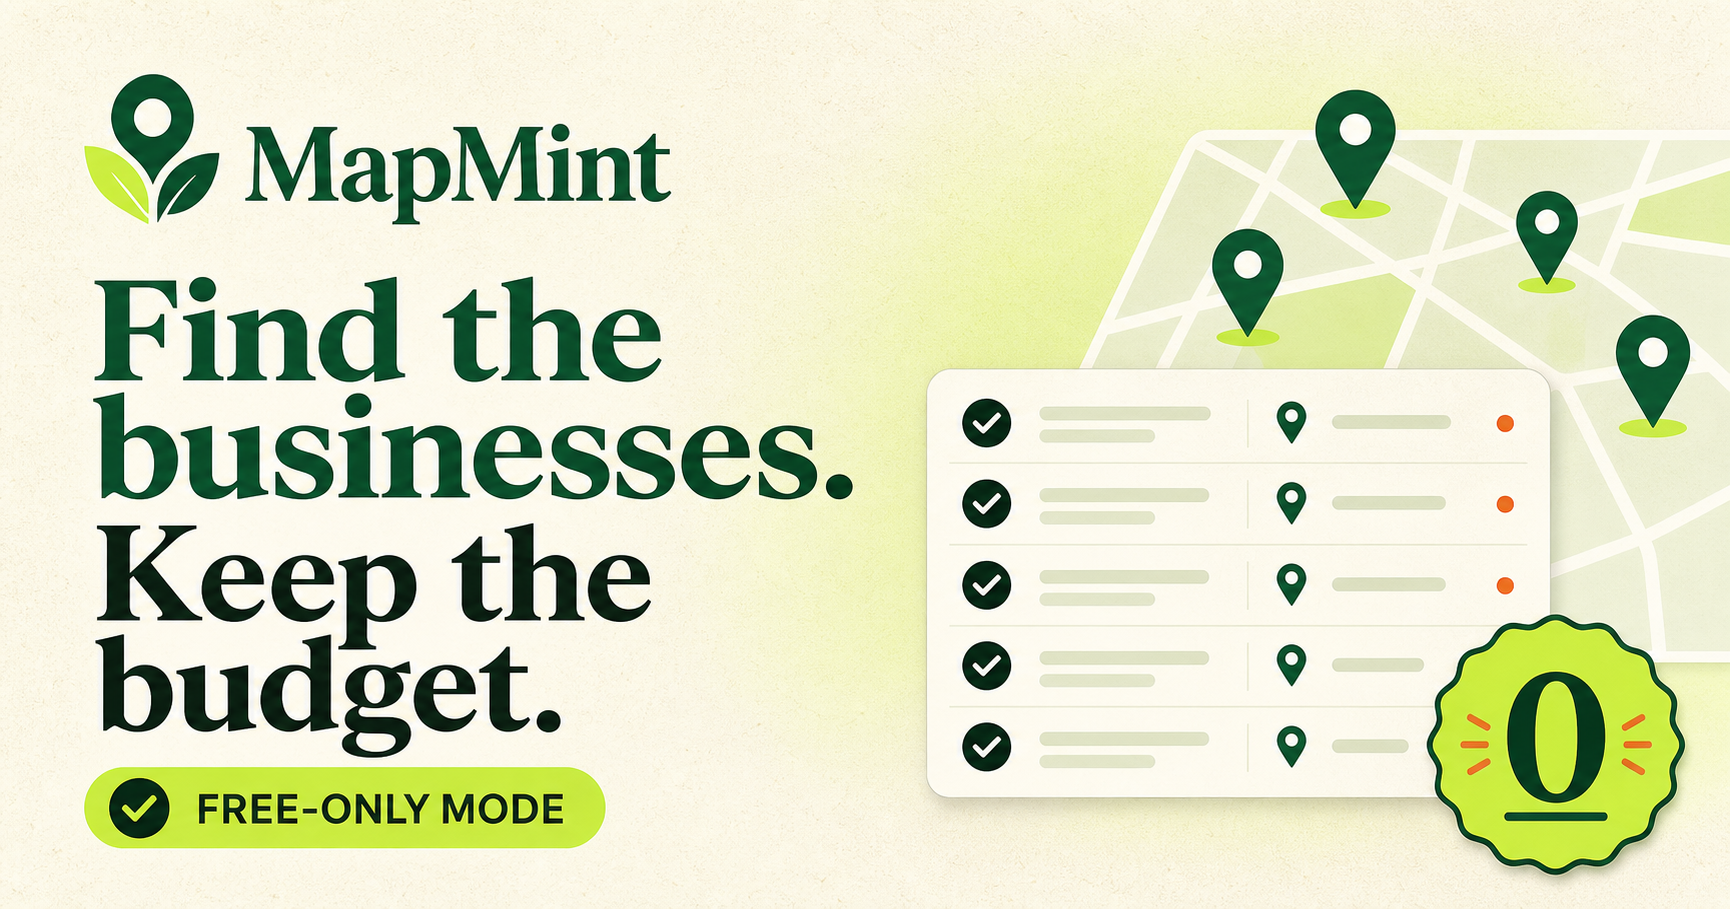
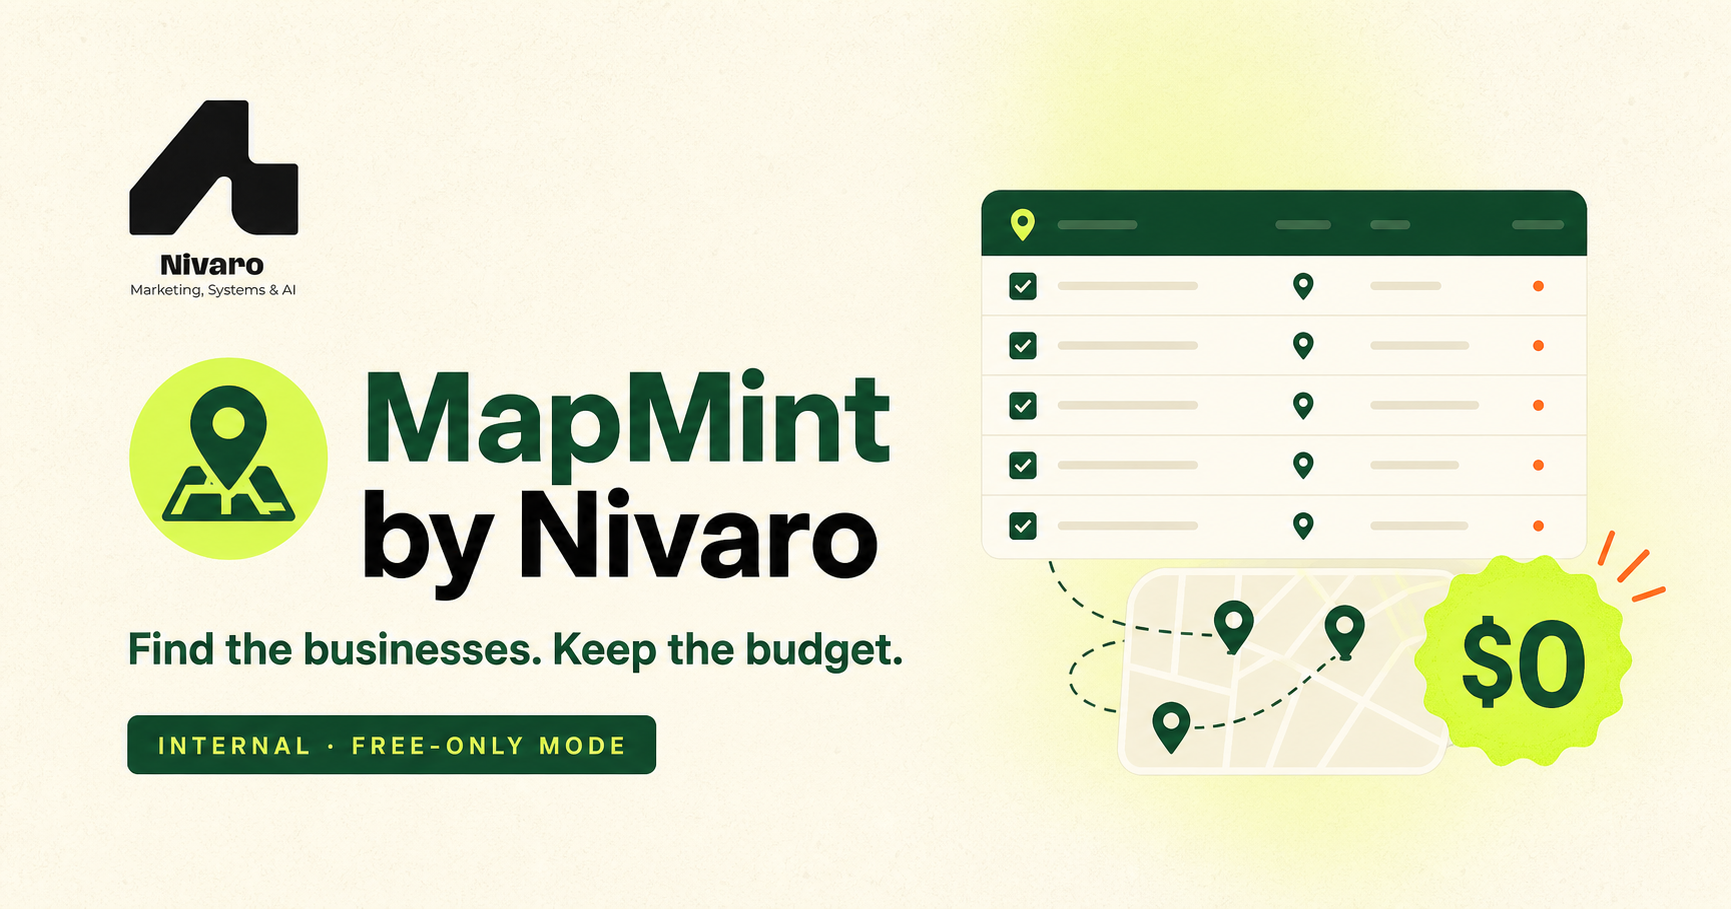
Brand MapMint as a Nivaro internal tool

diff --git a/app/globals.css b/app/globals.css
@@ -48,16 +48,38 @@ button:disabled { cursor: not-allowed; opacity: .45; }
   font-weight: 900;
   letter-spacing: -.6px;
 }
-.brand-mark {
-  width: 34px;
-  height: 34px;
+.nivaro-icon {
+  width: 46px;
+  height: 36px;
+  display: block;
+  position: relative;
+  overflow: hidden;
+  border-right: 1px solid var(--line);
+  padding-right: 10px;
+}
+.nivaro-icon img {
+  position: absolute;
+  width: 150px;
+  height: 45px;
+  max-width: none;
+  left: -57px;
+  top: -3px;
+}
+.product-lockup {
   display: grid;
-  place-items: center;
-  border-radius: 9px 9px 9px 2px;
-  color: var(--lime);
-  background: var(--green);
+  line-height: 1;
+}
+.product-lockup b {
   font-family: Georgia, serif;
-  font-style: italic;
+  font-size: 21px;
+  letter-spacing: -.7px;
+}
+.product-lockup small {
+  color: var(--muted);
+  font-size: 7px;
+  letter-spacing: 1.5px;
+  margin-top: 5px;
+  font-weight: 900;
 }
 .beta, .eyebrow, .step, .guard, .live-dot, .tip-card > span {
   font-size: 10px;
@@ -201,7 +223,10 @@ td b, td span { display: block; }
 td span { color: var(--muted); font-size: 10px; margin-top: 5px; max-width: 370px; }
 .rating { color: #ad7100; }
 .status { display: inline-block; color: var(--green); background: #e6efe2; border-radius: 99px; padding: 5px 8px; margin: 0; font-weight: 900; }
-footer { border-top: 1px solid var(--line); padding: 25px max(30px, calc((100vw - 1120px) / 2)); display: flex; justify-content: space-between; color: var(--muted); font-size: 10px; }
+footer { border-top: 1px solid var(--line); padding: 25px max(30px, calc((100vw - 1120px) / 2)); display: flex; align-items: center; justify-content: space-between; color: var(--muted); font-size: 10px; }
+.footer-brand { display: flex; align-items: center; gap: 10px; color: var(--ink); font-weight: 900; }
+.footer-brand .nivaro-icon { width: 35px; height: 26px; border: 0; padding: 0; }
+.footer-brand .nivaro-icon img { width: 108px; height: 32px; left: -41px; top: -2px; }
 
 @media (max-width: 800px) {
   .hero { padding-top: 55px; }

diff --git a/app/page.tsx b/app/page.tsx
@@ -189,10 +189,13 @@ export default function Home() {
   return (
     <main>
       <header className="topbar">
-        <a className="brand" href="#" aria-label="MapMint home">
-          <span className="brand-mark" aria-hidden="true">M</span>
-          <span>MapMint</span>
-          <span className="beta">BETA</span>
+        <a className="brand" href="#" aria-label="MapMint by Nivaro home">
+          <span className="nivaro-icon" aria-hidden="true"><img src="/nivaro-logo.png" alt="" /></span>
+          <span className="product-lockup">
+            <b>MapMint</b>
+            <small>BY NIVARO</small>
+          </span>
+          <span className="beta">INTERNAL</span>
         </a>
         <div className="top-actions">
           <span className="free-pill"><span /> FREE-ONLY MODE</span>
@@ -201,11 +204,11 @@ export default function Home() {
       </header>
 
       <section className="hero">
-        <div className="eyebrow">GOOGLE BUSINESS DATA, MINUS THE BILL</div>
+        <div className="eyebrow">A NIVARO INTERNAL TOOL · GOOGLE BUSINESS DATA, MINUS THE BILL</div>
         <h1>Find the businesses.<br /><em>Keep the budget.</em></h1>
         <p>
           Build clean local lead lists from Google Places. Duplicate-safe,
-          export-ready, and designed to stop before paid usage.
+          export-ready, and designed by Nivaro to stop before paid usage.
         </p>
       </section>
 
@@ -359,8 +362,8 @@ export default function Home() {
       </section>
 
       <footer>
-        <span>MapMint · Free-only Google business extraction</span>
-        <span>No subscriptions. No surprise bills.</span>
+        <span className="footer-brand"><span className="nivaro-icon" aria-hidden="true"><img src="/nivaro-logo.png" alt="" /></span> MapMint by Nivaro</span>
+        <span>Internal agency tool · No subscriptions. No surprise bills.</span>
       </footer>
     </main>
   );

diff --git a/app/layout.tsx b/app/layout.tsx
@@ -7,9 +7,9 @@ export async function generateMetadata(): Promise<Metadata> {
   const host = requestHeaders.get("x-forwarded-host") || requestHeaders.get("host");
   const protocol = requestHeaders.get("x-forwarded-proto") || "https";
   const baseUrl = host ? `${protocol}://${host}` : "http://localhost:3000";
-  const title = "MapMint — Free-only Google Business Extractor";
+  const title = "MapMint by Nivaro — Free-only Google Business Extractor";
   const description =
-    "Build clean, export-ready local business lead lists without surprise API bills.";
+    "Nivaro's internal tool for clean, export-ready local business lead lists without surprise API bills.";
 
   return {
     title,

diff --git a/README.md b/README.md
@@ -1,8 +1,8 @@
-# MapMint
+# MapMint by Nivaro
 
-A free-only Google Business lead extractor built around the official Google
-Places API. MapMint runs searches, removes duplicate Place IDs, caches results
-on the user's device, and exports clean CSV files.
+A Nivaro internal free-only Google Business lead extractor built around the
+official Google Places API. MapMint runs searches, removes duplicate Place IDs,
+caches results on the user's device, and exports clean CSV files.
 
 ## Safety model
 
